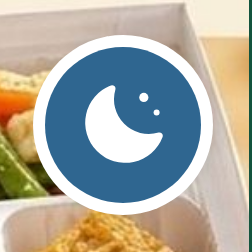
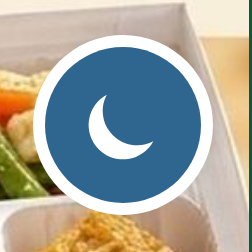
fix(home): redraw the sun and moon as proper geometry
Both read as stock icon-library glyphs. Redrawn from their geometry rather than
from the usual recipe.

The sun's problem was proportion, not concept. A large disc ringed by eight
short fat capsules is the default weather glyph in every icon set there is; the
disc now shrinks to r=4.35 and the rays run longer and finer with round caps,
which reads as drawn rather than assembled.

The moon is now a true lune: the two circle intersection points computed, then
one arc along each circle between them, so the tips taper to a point on their
own geometry instead of being faked. The two star dots are gone — crescent plus
two dots is the cliche half of the cliche.

The previous moon was wrong in a way that is easy to miss and easy to repeat.
fill-rule="evenodd" over two circles does not subtract one from the other, it
fills the SYMMETRIC DIFFERENCE — so the sliver of the inner circle poking past
the rim was painted as well, and the glyph rendered as a ring with a notch
rather than a crescent. I only caught it by rendering it at 112px; at 26px it
looked like a slightly odd moon. The four arc-flag combinations were rendered
side by side to pick the right one rather than reasoned about.

No colours changed, so no contrast work: still 81 pairings.

go vet, go test ./... (11 packages), contrast.py 81/81, verify-ui.mjs 0 FAIL.

Claude-Session: https://claude.ai/code/session_01StbHwjwkd6bzSruyyhJNYm

Changed region(s): [[0.3333, 0.3333, 0.6667, 0.6667], [0.5556, 0.3611, 0.6111, 0.4167], [0.6111, 0.4167, 0.6389, 0.4722]]

diff --git a/web/templates/home.html b/web/templates/home.html
@@ -154,7 +154,7 @@
         <a class="daycard-set" href="/menu/{{.ID}}">
           <span class="daycard-media">
             <img src="{{photo .ID}}" alt="" loading="lazy" width="320" height="213">
-            <span class="set-ribbon set-ribbon-sun"><svg viewBox="0 0 24 24" fill="currentColor" aria-hidden="true"><circle cx="12" cy="12" r="4.9"/><rect x="11.05" y="1.5" width="1.9" height="4.1" rx=".95" transform="rotate(0 12 12)"/><rect x="11.05" y="1.5" width="1.9" height="4.1" rx=".95" transform="rotate(45 12 12)"/><rect x="11.05" y="1.5" width="1.9" height="4.1" rx=".95" transform="rotate(90 12 12)"/><rect x="11.05" y="1.5" width="1.9" height="4.1" rx=".95" transform="rotate(135 12 12)"/><rect x="11.05" y="1.5" width="1.9" height="4.1" rx=".95" transform="rotate(180 12 12)"/><rect x="11.05" y="1.5" width="1.9" height="4.1" rx=".95" transform="rotate(225 12 12)"/><rect x="11.05" y="1.5" width="1.9" height="4.1" rx=".95" transform="rotate(270 12 12)"/><rect x="11.05" y="1.5" width="1.9" height="4.1" rx=".95" transform="rotate(315 12 12)"/></svg></span>
+            <span class="set-ribbon set-ribbon-sun"><svg viewBox="0 0 24 24" aria-hidden="true"><circle cx="12" cy="12" r="4.35" fill="currentColor"/><path d="M12.00 5.10 L12.00 1.50 M16.88 7.12 L19.42 4.58 M18.90 12.00 L22.50 12.00 M16.88 16.88 L19.42 19.42 M12.00 18.90 L12.00 22.50 M7.12 16.88 L4.58 19.42 M5.10 12.00 L1.50 12.00 M7.12 7.12 L4.58 4.58" fill="none" stroke="currentColor" stroke-width="1.75" stroke-linecap="round"/></svg></span>
           </span>
           <span class="daycard-set-body">
             <span class="visually-hidden">{{t $.L "slot.lunch"}}</span>
@@ -166,7 +166,7 @@
         <a class="daycard-set" href="/menu/{{.ID}}">
           <span class="daycard-media">
             <img src="{{photo .ID}}" alt="" loading="lazy" width="320" height="213">
-            <span class="set-ribbon set-ribbon-moon"><svg viewBox="0 0 24 24" fill="currentColor" aria-hidden="true"><path d="M20.9 13.9A8.7 8.7 0 0 1 10.1 3.1a.85.85 0 0 0-1.1-1 10 10 0 1 0 12.9 12.9.85.85 0 0 0-1-1.1Z"/><circle cx="17.2" cy="5.1" r="1.15"/><circle cx="20.4" cy="8.9" r=".75"/></svg></span>
+            <span class="set-ribbon set-ribbon-moon"><svg viewBox="0 0 24 24" fill="currentColor" aria-hidden="true"><path d="M19.59 16.05 A8.60 8.60 0 1 1 7.95 4.41 A8.60 8.60 0 0 0 19.59 16.05 Z"/></svg></span>
           </span>
           <span class="daycard-set-body">
             <span class="visually-hidden">{{t $.L "slot.dinner"}}</span>

diff --git a/docs/00-README-and-decisions.md b/docs/00-README-and-decisions.md
@@ -153,6 +153,7 @@ in the affected docs the same day.
 | D70 | 2026-10-19 | **The lunch/dinner words become a sun and a moon ribbon on the photograph, and the two photo rows line up on every card.** | Steven. The badges reuse PINNED pairs (D42) — lime with ink on it at 14.63, brand green with white at 8.88 — so the glyph is measured against the badge and never against whatever happens to be in the photo behind it; a ring in `--card` separates the badge from a pale dish. The word stays in the DOM as a visually-hidden label, because an icon alone leaves `Salmon teriyaki` with no indication of which sitting it belongs to. Alignment re-checked at **eleven widths from 768 to 1920**, not the two I had checked before: one photo row each, everywhere. | home.html, app.css |
 | D71 | 2026-10-19 | **New sun and moon artwork: a white rayed disc on pinned orange, a white crescent and stars on pinned blue.** | Steven. The sun is a filled disc with eight rounded rays placed at exact 45° rotations rather than a stroked circle; the moon gains two stars in the crescent's opening. Both fills are **pinned** (`--ctl-sun #C2410C`, `--ctl-moon #2F6690`) and never redefined in a dark block: `--info` lightens to `#8FB8DC` in the dark theme and a white glyph on that measures **2.09**. White on the two badges is 5.18 and 6.13. | tokens.css, app.css, home.html, contrast.py, 10-design-system.md |
 | D72 | 2026-10-19 | **The week band deepens from `#F7EBE6` to `#EBD1C5`, a proper warm clay.** | Steven wanted it stronger. Two things made the extra depth available. `.daycard-more` left the markup with D69, so `--brand` on a glass day card stopped being a constraint — that was the check that had narrowed the palette all the way back to D66. And `--card-quiet` moved from 50% to 62%, because the **day-card header** is the surface that runs out of contrast first and at 50% it capped the band at `#EFD9CF`. The remaining floor is `--ink-soft` on the band, which fails at `#E8CBBD` (4.43); `#EBD1C5` holds it at 4.67. | tokens.css, app.css, contrast.py, 10-design-system.md |
+| D73 | 2026-10-19 | **The sun and moon are redrawn: a small disc with long fine rays, and a true two-arc lune.** | Steven — the previous pair read as stock icon-library glyphs. The sun's problem was proportion, not concept: a fat disc ringed by eight short fat capsules is the default weather glyph, so the disc shrinks to r=4.35 and the rays get longer and finer. The moon is built from the geometry — the two circle intersection points and an arc along each circle. The earlier `fill-rule="evenodd"` version was wrong in a way that is easy to miss: evenodd on two circles fills the **symmetric difference**, so the sliver of the inner circle poking past the rim was painted too and the glyph read as a ring with a notch. | home.html |
 
 ---
 
